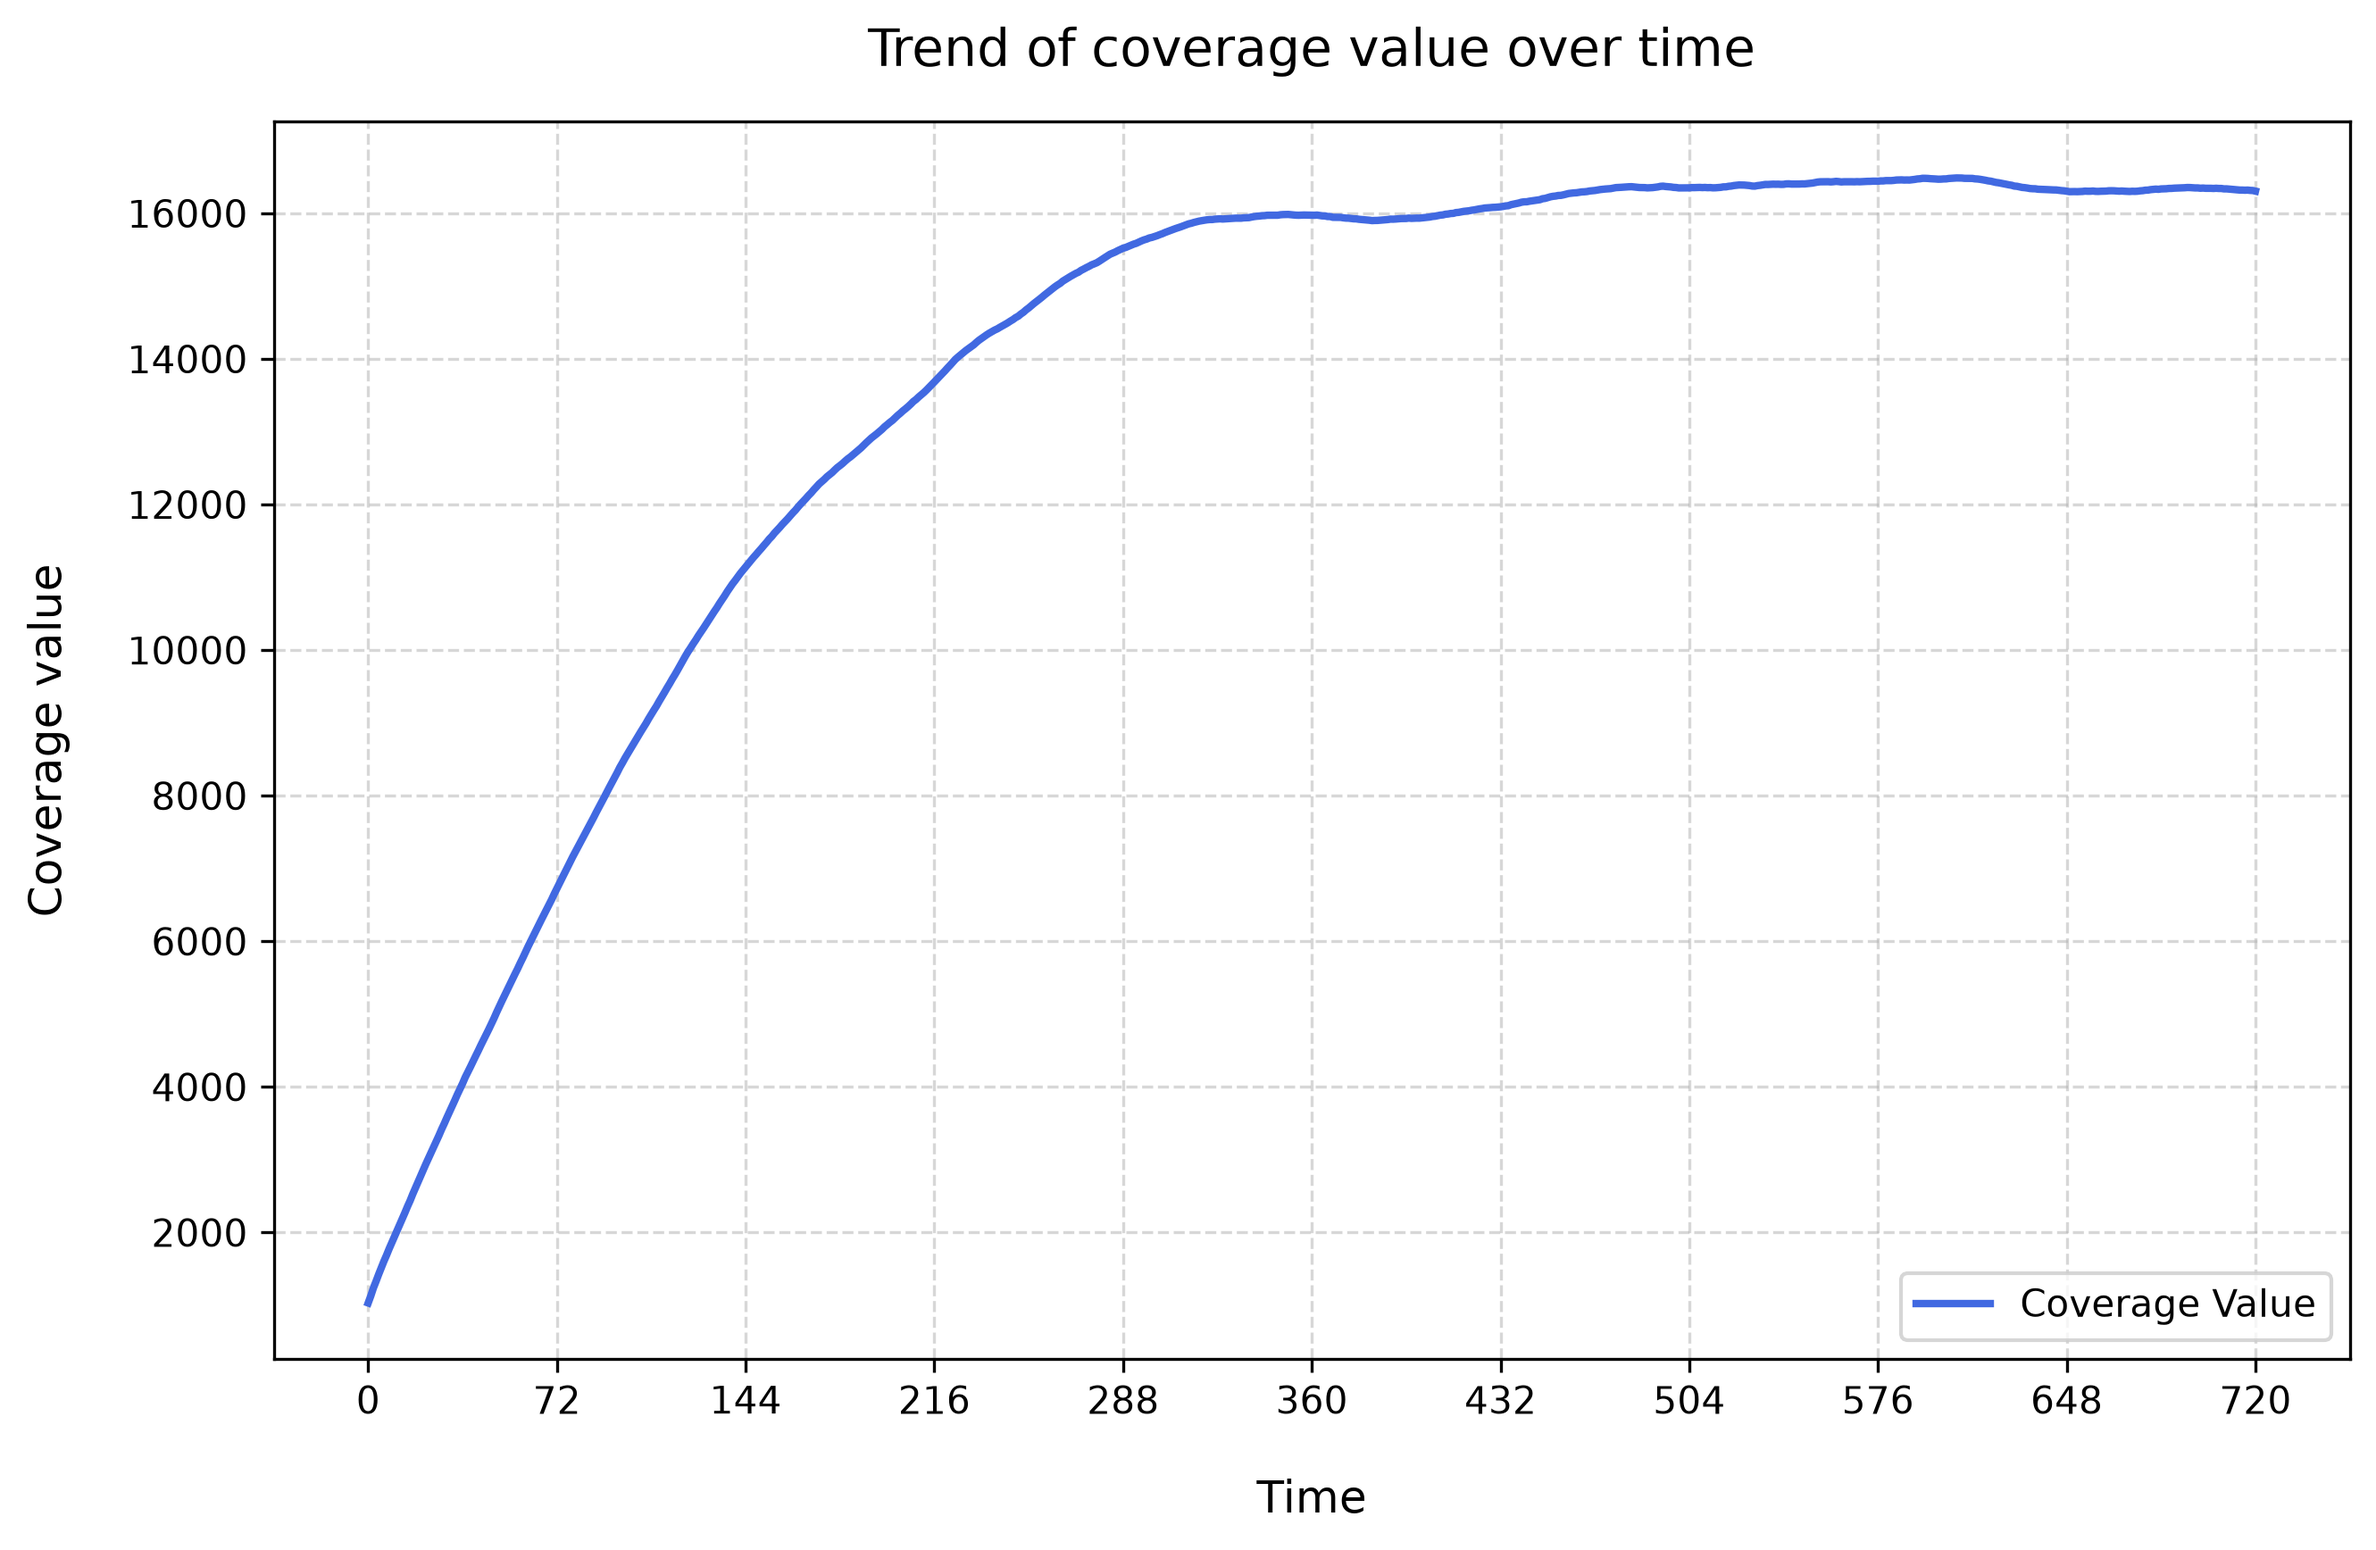
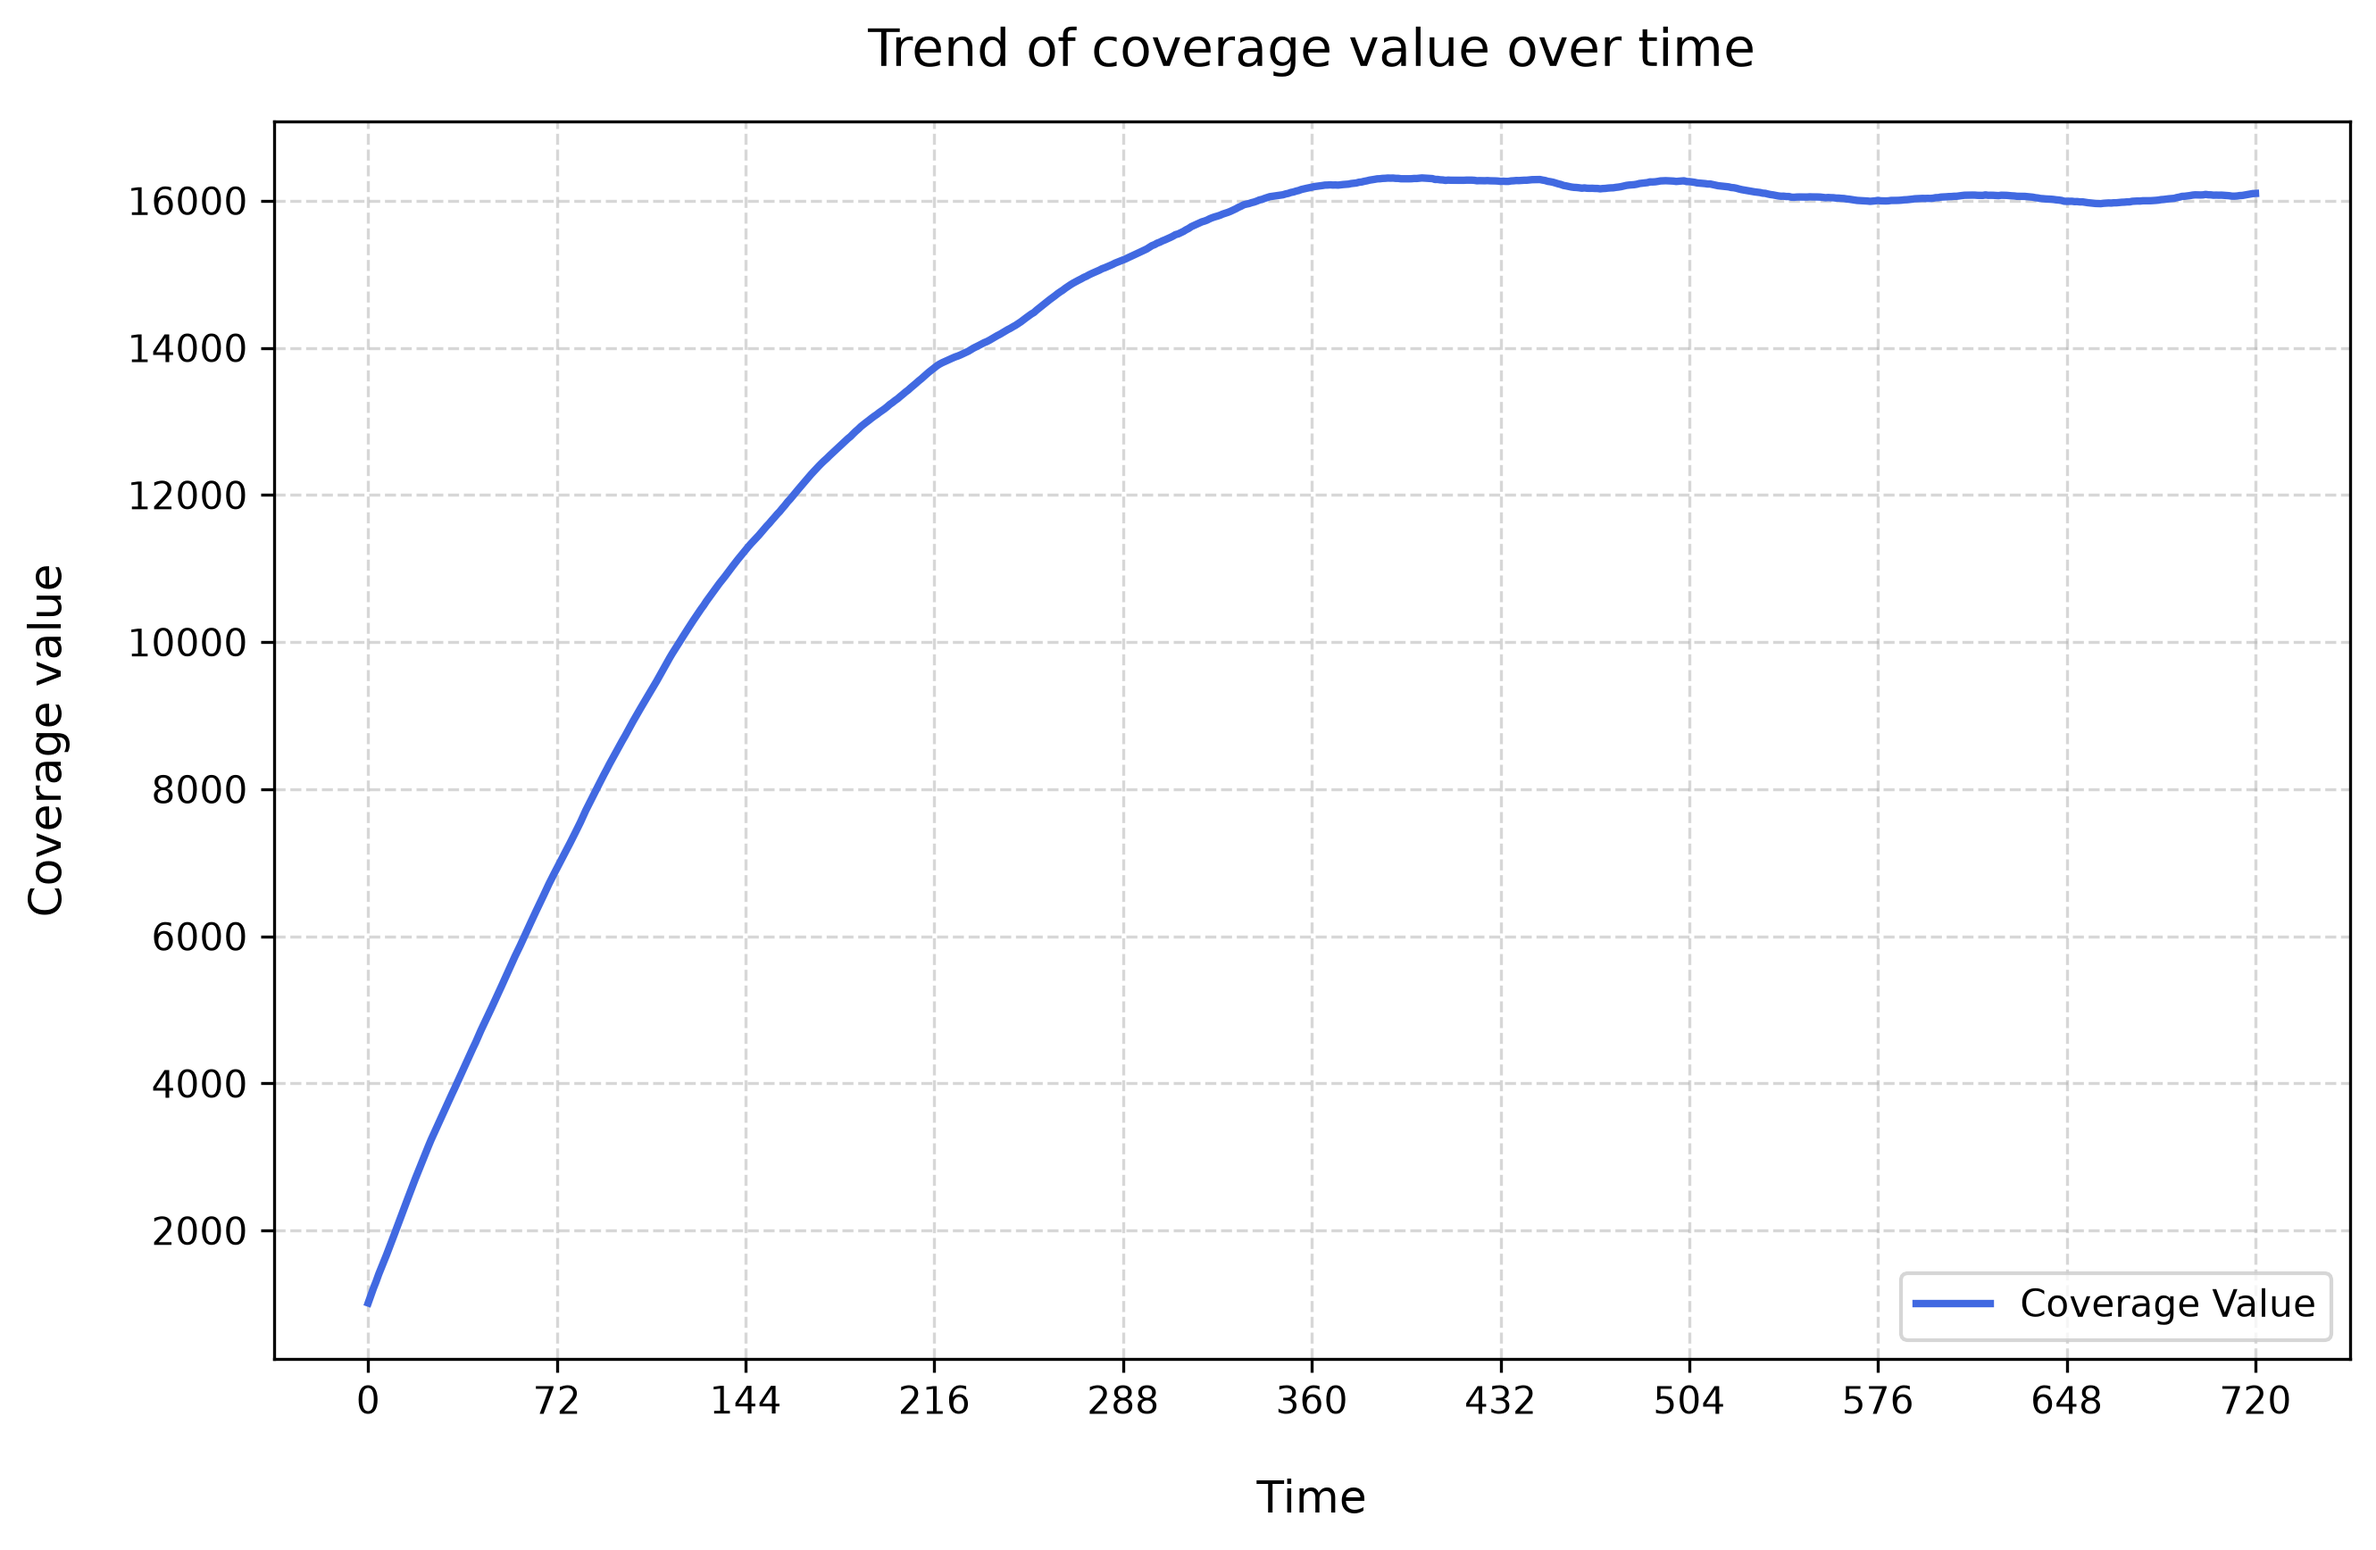
Correzione resa grafica video

diff --git a/renderer.py b/renderer.py
@@ -1,3 +1,4 @@
+# renderer.py
 import os
 import numpy as np
 import matplotlib.pyplot as plt
@@ -22,7 +23,8 @@ def generate_video_from_log(log_data, video_path, fps, iteration_step, frames_pa
     # Init video writer (requires: pip install imageio[ffmpeg])
     if imageio is None:
         print("\n[Warning] Library 'imageio' is not installed.")
-        print("Cannot produce video. Only static PNG frames will be saved; imageio[ffmpeg] is required for video generation.")
+        print(
+            "Cannot produce video. Only static PNG frames will be saved; imageio[ffmpeg] is required for video generation.")
         writer = None
     else:
         print(f"\n Video generation '{video_path}'...")
@@ -33,13 +35,18 @@ def generate_video_from_log(log_data, video_path, fps, iteration_step, frames_pa
             writer = imageio.get_writer(video_path, format='FFMPEG', mode='I', fps=fps, macro_block_size=None)
         except Exception as e:
             print(f"[Warning] Error starting writer: {e}")
-            print("Cannot produce video. Only static PNG frames will be saved; imageio[ffmpeg] is required for video generation.")
+            print(
+                "Cannot produce video. Only static PNG frames will be saved; imageio[ffmpeg] is required for video generation.")
             writer = None
 
     # Parameters extraction from log
     map_file_name = log_data["map_file_name"]
     sensor_range = log_data["sensor_range"]
     decay_rate = log_data["decay_rate"]
+    random_spawn = log_data.get("random_spawn", True)
+    spawn_radius = log_data.get("spawn_radius", 20)
+    start_row = log_data.get("start_row", 100)
+    start_col = log_data.get("start_col", 150)
 
     # Load the map to perform the calculations
     m = Map(map_file_name)
@@ -74,13 +81,28 @@ def generate_video_from_log(log_data, video_path, fps, iteration_step, frames_pa
         # Coverage grid
         # Exclude not viewed cell (coverage value < 1%), color: navy, and land cell, color : green
         masked_grid = np.ma.masked_where((~m.sea_mask) | (m.grid < 0.01), m.grid)
-        #Print sea area visited
+        # Print sea area visited
         im = ax.imshow(masked_grid, origin='upper', cmap='viridis', vmin=0.0, vmax=1.0)
 
         # Color bar
         cbar = fig.colorbar(im, ax=ax, orientation='vertical', pad=0.03, shrink=0.75)
         cbar.set_label('Cell coverage value', fontsize=11, labelpad=10)
         cbar.ax.tick_params(labelsize=9)
+
+        # Draw spawn circle
+        if random_spawn and t == 0:
+            spawn_circle = patches.Circle(
+                (start_col, start_row),
+                radius=spawn_radius,
+                facecolor='none',
+                edgecolor='red',
+                linestyle='--',
+                linewidth=1.5,
+                alpha=0.8,
+                zorder=3,
+                label='Spawn Area'
+            )
+            ax.add_patch(spawn_circle)
 
         # Trajectory tracking on the map
         for idx, p in enumerate(positions):
@@ -141,7 +163,16 @@ def generate_video_from_log(log_data, video_path, fps, iteration_step, frames_pa
         ax.set_xlabel("Coordinate X [Cell / px]", fontsize=11, labelpad=8)
         ax.set_ylabel("Coordinate Y [Cell / px]", fontsize=11, labelpad=8)
         ax.grid(True, which='both', color='gray', linestyle='--', alpha=0.25, zorder=1)
-        ax.legend(loc='upper right', frameon=True, facecolor='white', framealpha=0.9, fontsize=9)
+        ax.legend(loc='lower right', bbox_to_anchor=(0.99, 0.06), frameon=True, facecolor='white', framealpha=0.9, fontsize=9)
+
+        # Coverage value
+        current_percent = (recalculated_coverage / 39330) * 100
+
+        info_text = f"Coverage: {recalculated_coverage:.1f} ({current_percent:.2f}%)"
+
+        ax.text(0.98, 0.02, info_text, transform=ax.transAxes, fontsize=10, fontweight='bold',
+                verticalalignment='bottom', horizontalalignment='right',
+                bbox=dict(boxstyle='round,pad=0.5', facecolor='white', alpha=0.85, edgecolor='gray'), zorder=10)
 
         # Frame generation
         if writer is not None:

diff --git a/main.py b/main.py
@@ -20,7 +20,7 @@ def main():
 
         #Load map
         try:
-            m = Map("sea_land_mask_10m_Cecina.npz")
+            m = Map(c.FILE_NAME)
         except FileNotFoundError:
             print("Error: Map file not found.")
             sys.exit()
@@ -63,13 +63,6 @@ def main():
             # Simultaneous simulation
             for agent in fleet:
                 agent.update_position(c.NUM_SAMPLES, fleet)
-            # next_position = []
-            # for agent in fleet:
-            #     row, col = agent.find_next_position(c.NUM_SAMPLES, fleet)
-            #     next_position.append((row, col))
-            # for i, agent in enumerate(fleet):
-            #     row, col = next_position[i]
-            #     agent.update_position(row, col)
 
             coverage_history.append(m.coverage_value)
             coverage_percent_history.append((m.coverage_value/c.NUM_SEA_CELLS)*100)
@@ -92,15 +85,19 @@ def main():
 
     # Storage simulation data
     first_run_trajectory_data = {
-        "map_file_name": "sea_land_mask_10m_Cecina.npz",
+        "map_file_name": c.FILE_NAME,
         "sensor_range": c.SENSOR_RANGE,
         "decay_rate": c.DECAY_RATE,
+        "random_spawn": c.RANDOM_SPAWN,
+        "spawn_radius": c.SPAWN_RADIUS,
+        "start_row": c.START_ROW,
+        "start_col": c.START_COL,
         "trajectory": trajectory_run_0,
         "coverage_history": coverage_history_run_0
     }
 
     media_data = {
-        "map_file_name": "sea_land_mask_10m_Cecina.npz",
+        "map_file_name": c.FILE_NAME,
         "coverage_history": list(average_coverage),
         "coverage_percent_history": list(average_percent),
         "final_grid": average_final_grid,

diff --git a/plots.py b/plots.py
@@ -1,7 +1,5 @@
 import matplotlib.pyplot as plt
 import os
-import costants
-
 
 def save_coverage_table(coverage_history, coverage_percent_history, iteration_step, path):
     # Data preparation for the table
@@ -48,7 +46,7 @@ def save_coverage_table(coverage_history, coverage_percent_history, iteration_st
     plt.close()
     print(f"Table saved in {path}.")
 
-def save_coverage_plot(coverage_history, iteration_step, path="coverage_plot.png"):
+def save_coverage_plot(coverage_history, iteration_step, path):
     # Figure dimension
     fig , ax = plt.subplots(figsize=(10, 6))
 
@@ -87,7 +85,7 @@ def save_coverage_plot(coverage_history, iteration_step, path="coverage_plot.png
     plt.close()
     print(f"Plot saved in {path}.")
 
-def save_coverage_histogram(map_grid, sea_mask, path="results/coverage_histogram.png"):
+def save_coverage_histogram(map_grid, sea_mask, path):
     sea_values = map_grid[sea_mask]
 
     fig, ax = plt.subplots(figsize=(10, 6))

diff --git a/costants.py b/costants.py
@@ -1,11 +1,20 @@
 # constants.py
 
-# Simulatio data
+# File name for map
+FILE_NAME = "sea_land_mask_10m_Cecina.npz"
+
+# Simulation data
 NUM_RUNS = 10
 NUM_ITERATIONS = 720
 ITERATIONS_STEP = NUM_ITERATIONS//10
 NUM_SAMPLES = 30
-t = 5 #s
+
+# agent parameters
+NUM_AGENTS = 10
+SENSOR_RANGE = 8 # Euclidean distance from the center of a cell to another
+v_agent = 2 # m/s
+pixel_dimension = 10 # 10m x 10m
+t = pixel_dimension/v_agent
 
 # map parameters
 NUM_SEA_CELLS = 39330
@@ -14,12 +23,6 @@ LOSS_REF = 1- DECAY_RATE_REF
 TIMESTEP = 30 #s
 LOSS = LOSS_REF * (t/TIMESTEP)
 DECAY_RATE = 1 - LOSS
-
-# agent parameters
-NUM_AGENTS = 10
-SENSOR_RANGE = 8 # Euclidean distance from the center of a cell to another
-v_agent = 2 # m/s
-pixel_dimension = 10 # 10m x 10m
 
 # Start position of the agents (row, col)
 START_ROW = 100

diff --git a/map.py b/map.py
@@ -1,8 +1,9 @@
 import numpy as np
+import costants as c
 from bresenham_utilities import get_visible_cells
 
 class Map:
-    def __init__(self, filename="sea_land_mask_10m_Cecina.npz"):
+    def __init__(self, filename=c.FILE_NAME):
         #Load Map
         data = np.load(filename) # 39.330 Number o sea cells
         #store data
